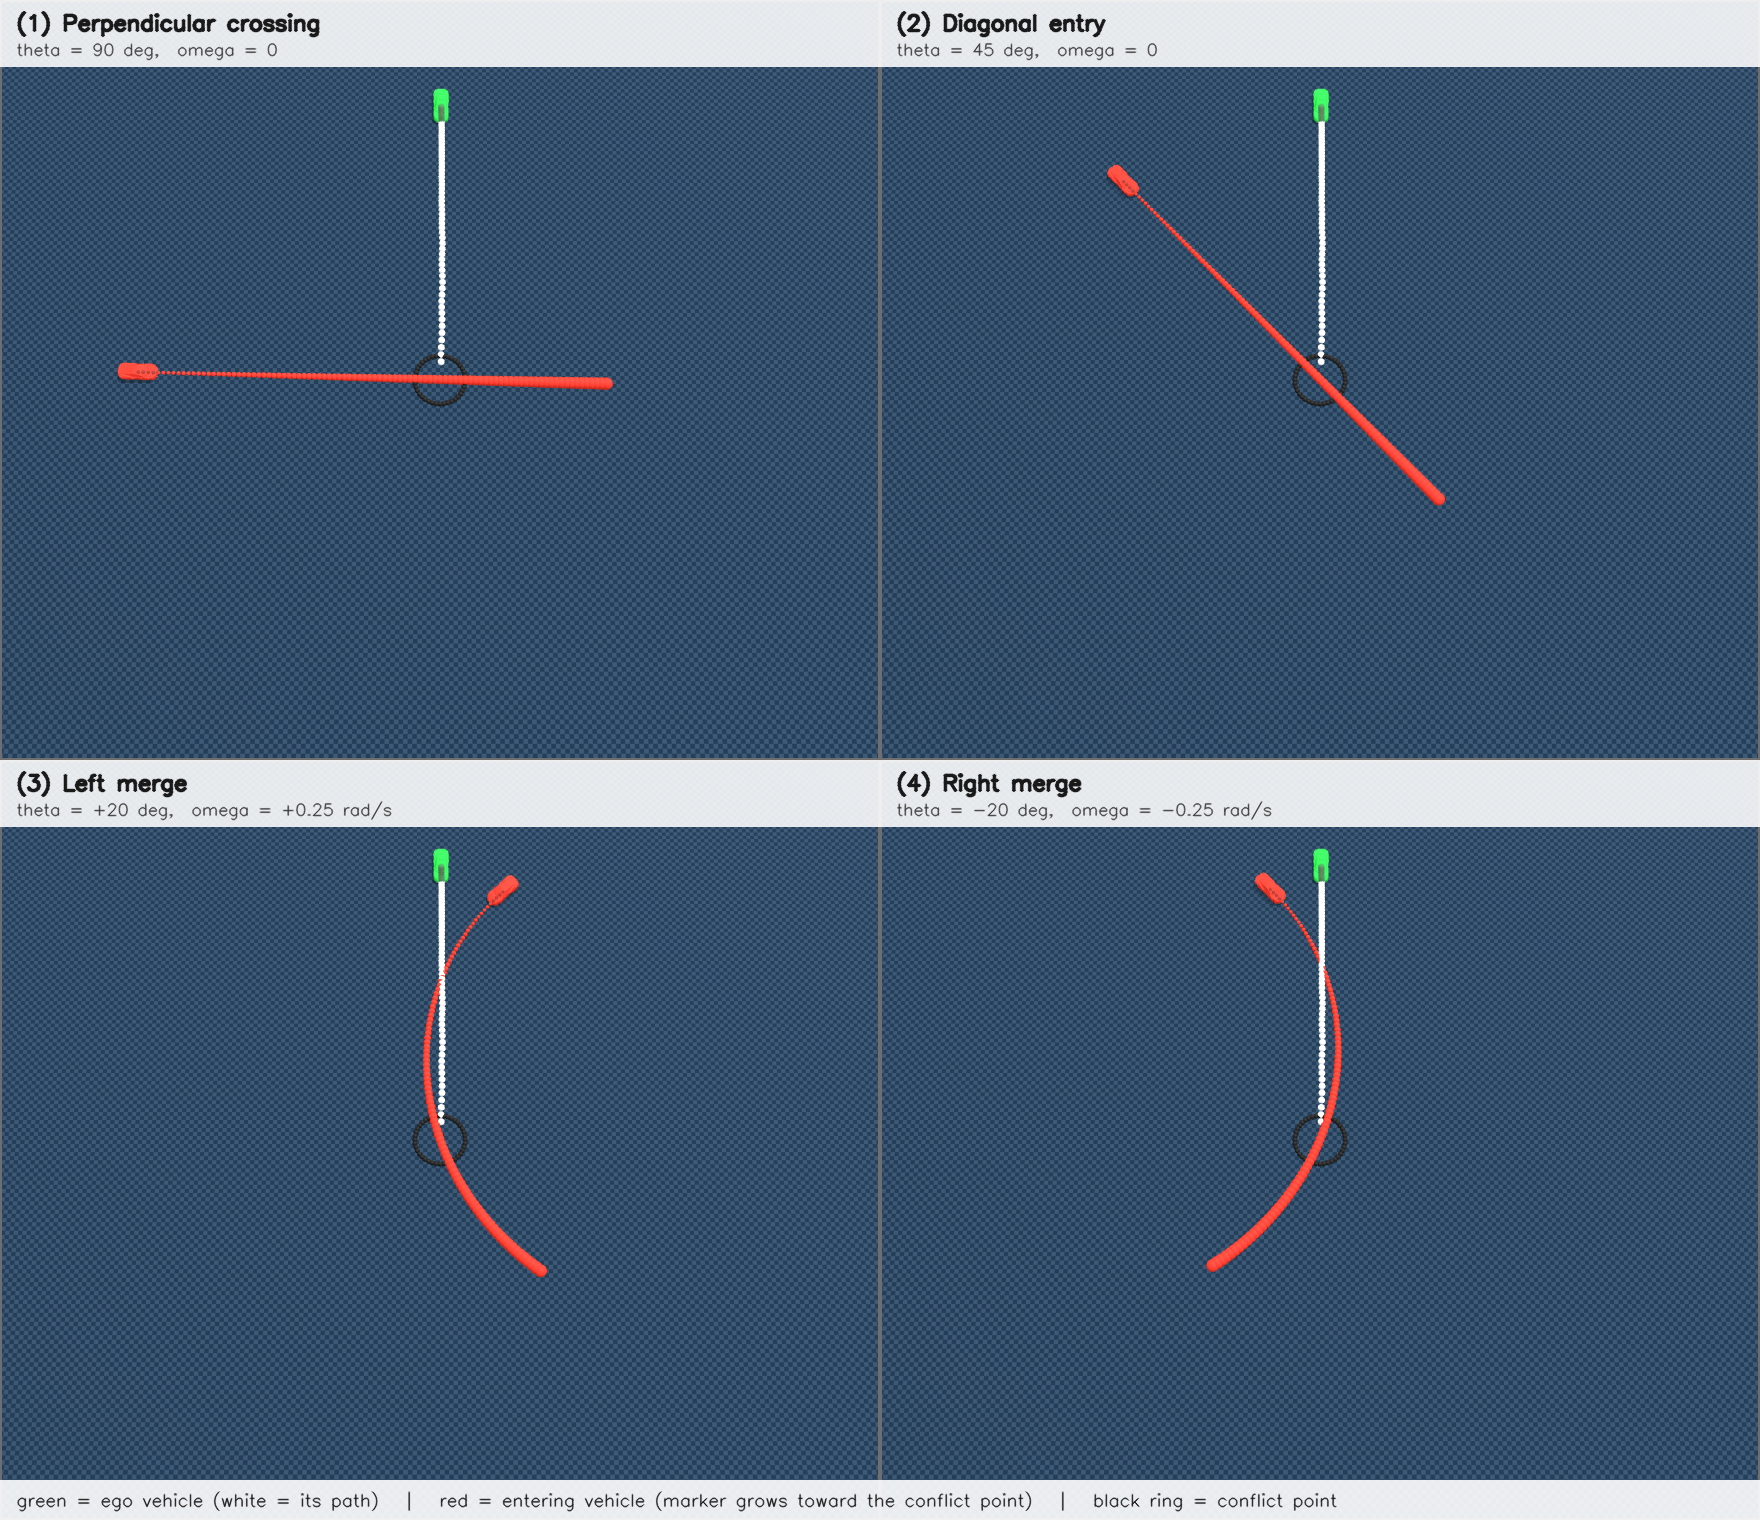
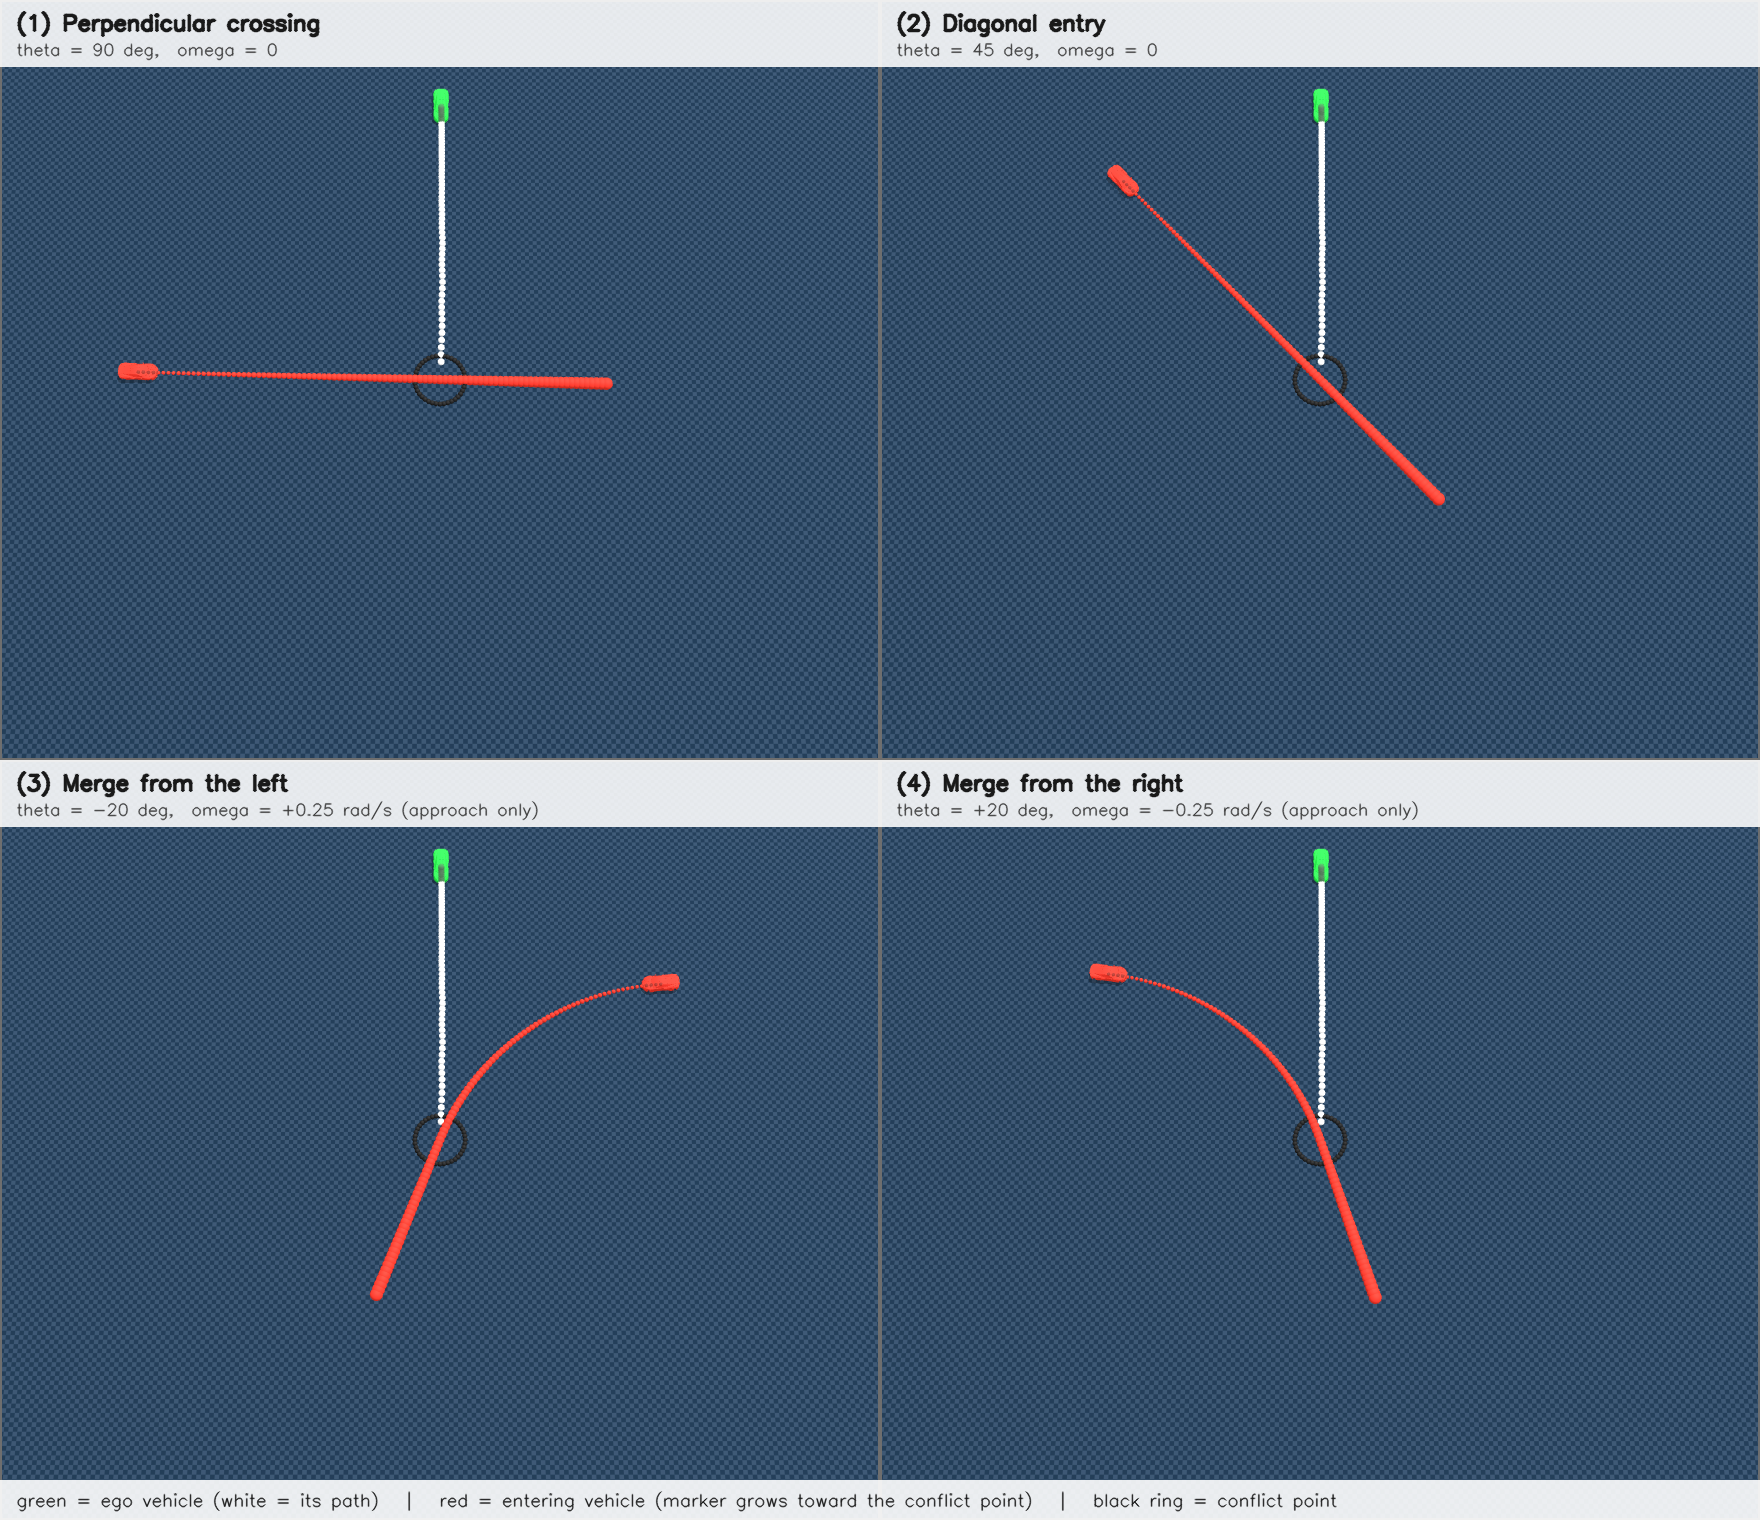
report: 진입 차량 궤적을 교차점 1개로 제약 (Δψ 상한·교차 후 직진·θ/ω 부호 반대)
Claude-Session: https://claude.ai/code/session_01NEmCSfbc4gFDvN6WseAzYy

diff --git a/[DIGLAB][26-08-10][허재원]Obstacle_Avoidance_RL.md b/[DIGLAB][26-08-10][허재원]Obstacle_Avoidance_RL.md
@@ -111,11 +111,23 @@ https://github.com/user-attachments/assets/879efe2d-091e-451d-87c9-fac3053f9013
 |---|---|---|---|
 | 직각 횡단 | 90° | 0 | 사거리 좌우에서 나오는 차 |
 | 대각선 진입 | 45° | 0 | 비스듬한 합류로 |
-| 좌회전 합류 | +20° | +0.25 | 도로로 꺾어 들어옴 |
-| 우회전 합류 | −20° | −0.25 | 반대쪽에서 꺾어 들어옴 |
+| 왼쪽에서 합류 | −20° | +0.25 | 도로로 꺾어 들어옴 |
+| 오른쪽에서 합류 | +20° | −0.25 | 반대쪽에서 꺾어 들어옴 |
 
 - 교차 시점 상태에서 **시간을 거꾸로 적분**해 출발 위치를 정함 -> 어떤 궤적이든 정확히 그 시각에 그 지점을 지나므로 시험이 성립
 - 지터 ±1 초로 "먼저 지나감 / 딱 겹침 / 늦게 옴"을 섞음 -> 안 섞으면 "무조건 정지"가 최적해가 됨
+
+**교차점이 하나가 되도록 궤적에 세 가지 제약** — 초기 구현은 요레이트를 에피소드 내내 유지하고 θ·ω 부호를 따로 뽑아서, 진입 차량이 경로를 가로지른 뒤 되돌아왔음.
+
+| 제약 | 이유 |
+|---|---|
+| 접근 중 방위 변화 \|ω·T\| ≤ 100° | T 가 길면(멀리서 출발) 원을 그림 |
+| 교차점 통과 후 ω = 0 | 합류 차량은 도로에 올라탄 뒤 직진 |
+| sign(ω) = −sign(θ) | 같은 부호면 가로질렀다 되돌아옴 |
+
+- 자차와 두 번 이상 근접하는 경우 0.8% -> **0%**, 충돌 발생 env 21.9% -> 20.3% 로 학습 신호는 유지
+- 경로 폴리라인 기준으로 세면 20.3% -> 12.5% 로 남지만, 굽은 경로에서 이미 지나간 구간 옆을 스치는 것까지 세어진 값. **그 시각에 자차가 있는 자리** 기준으로 세야 함
+- 이 수정으로 충돌률은 바뀌지 않음 -> 아래 5.2 의 실패 원인은 아님
 
 ### 5.2 결과
 
